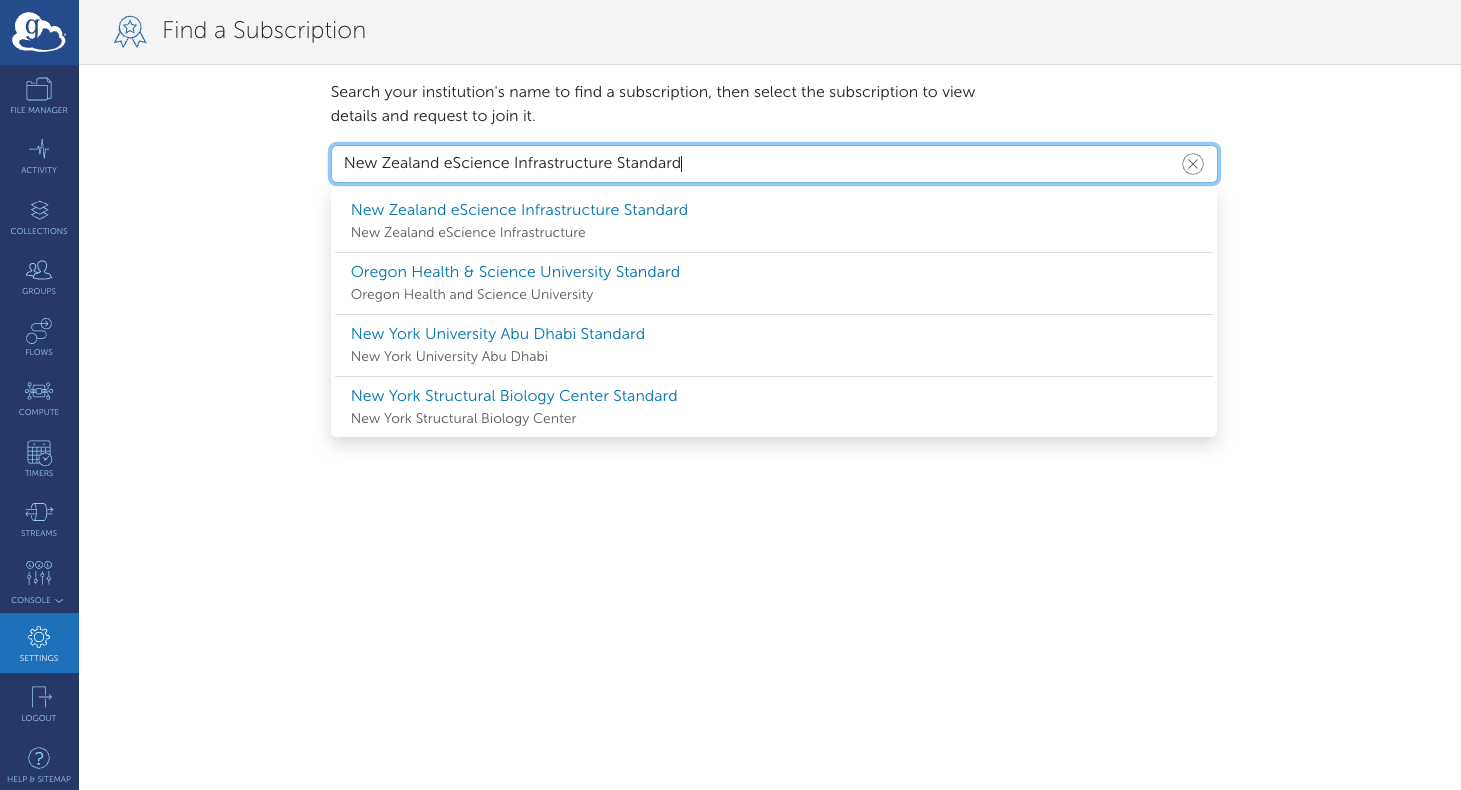
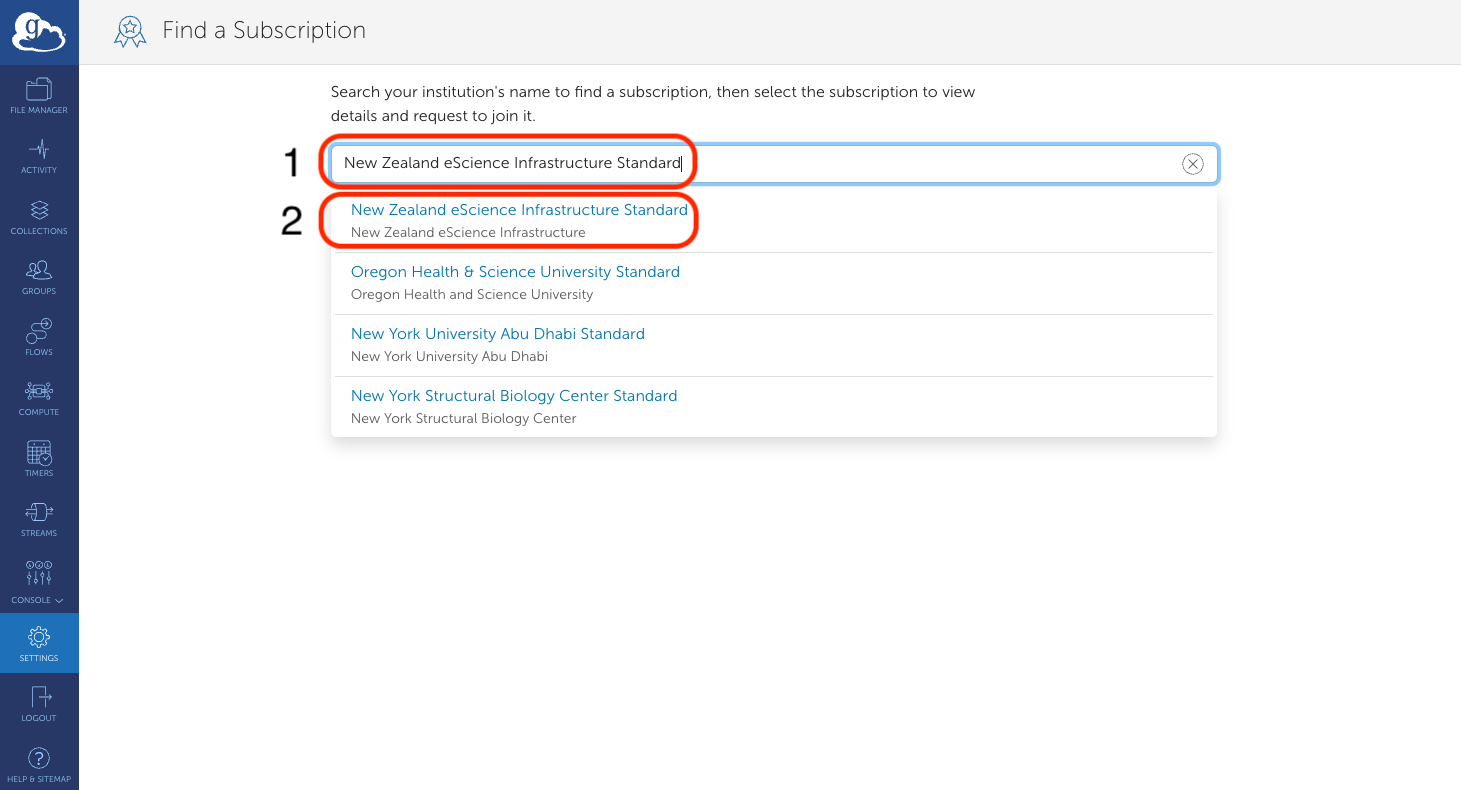
Data Transfer between personal endpoints

Changed region(s): [[0.1848, 0.1519, 0.4928, 0.3342]]

diff --git a/docs/File_Transfer/Globus/Data_Transfer_Between_Personal_Endpoints.md b/docs/File_Transfer/Globus/Data_Transfer_Between_Personal_Endpoints.md
@@ -3,17 +3,38 @@ created_at: '2021-08-27T03:18:13Z'
 tags: 
     - globus
     - file transfer
-title: Data Transfer between two Personal Computers/Endpoints
+title: Data Transfer Between Two Personal Computers
 ---
 
 It is possible to copy files between two computers/servers (two `endpoints`) using
 Globus. However, first you need to sign up with a Globus Subscription. **This is free**
-for Mahuika users. 
+for Mahuika users.
 
 ## Signing into your **Free** Globus Subscription
 
 1. Click the Search Tab and click on `Find a Subscription`:
 
-![Globus_Between_Computers_1.png](../../assets/images/Globus_Between_Computers_1.png)
+    ![Globus_Between_Computers_1.png](../../assets/images/Globus_Between_Computers_1.png)
 
-2. 
+2. In the empty field line, search for `New Zealand eScience Infrastructure Standard`
+
+    ![Globus_Between_Computers_2.png](../../assets/images/Globus_Between_Computers_2.png)
+
+3. On the `New Zealand eScience Infrastructure Standard` subscription page, click on `Join this Subscription`:
+
+    ![Globus_Between_Computers_3.png](../../assets/images/Globus_Between_Computers_3.png)
+
+4. Select an identity and provide your first name, last name, and organisation for the subscription.
+    Note: you may be required to authenticate yourself.
+
+    ![Globus_Between_Computers_4.png](../../assets/images/Globus_Between_Computers_4.png)
+
+5. You will see a message saying that `Membership is Pending`. Our support team will submit your request
+
+    ![Globus_Between_Computers_5.png](../../assets/images/Globus_Between_Computers_5.png)
+
+## Transferring files between two computers
+
+Follow the [Transferring data using Globus](./Data_Transfer_using_Globus.md#transferring-data-using-globus) page
+to learn how to transfer data between two computers, where instead of transferring data between your `endpoint`
+and mahuika, you transfer data between your two computers/servers (your two `endpoints`).
